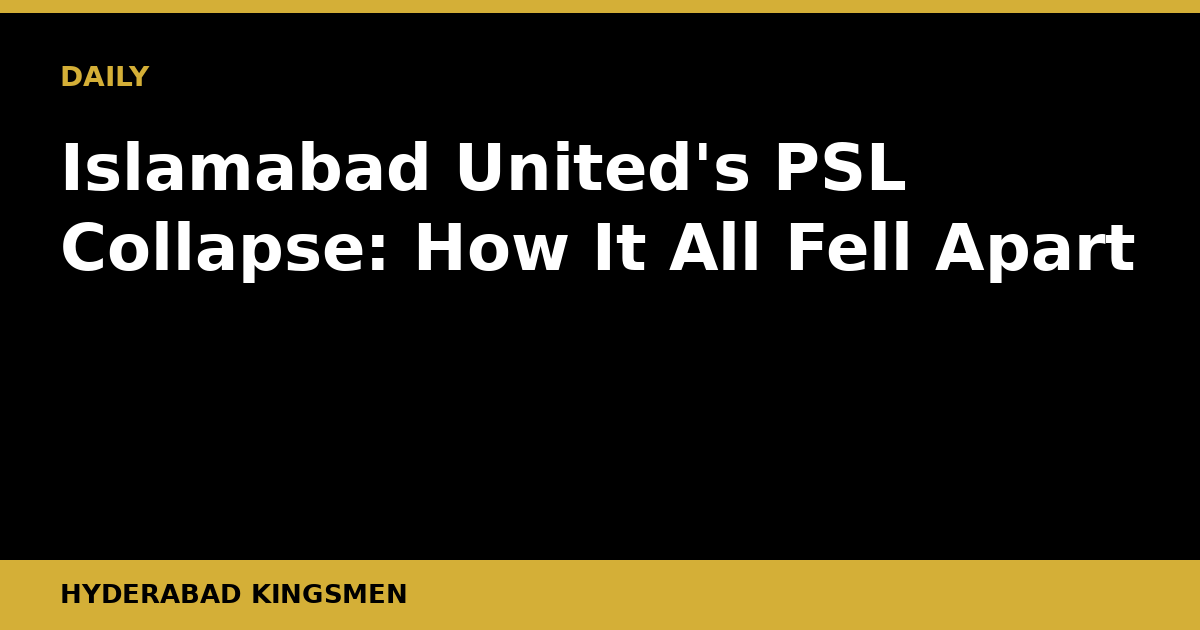
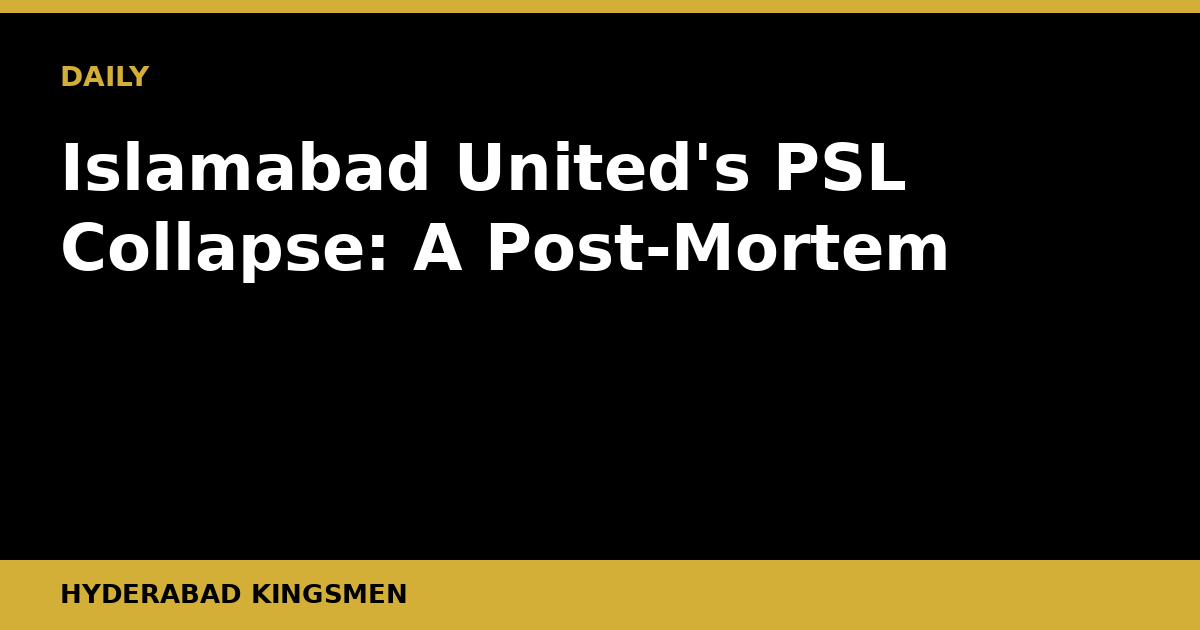
Daily post 2026-09-19

Changed region(s): [[0.3392, 0.3317, 0.9558, 0.4524]]

diff --git a/content/posts/islamabad-united-psl-collapse-post-mortem.md b/content/posts/islamabad-united-psl-collapse-post-mortem.md
@@ -1,53 +1,51 @@
 ---
-title: "Islamabad United's PSL Collapse: How It All Fell Apart"
+title: "Islamabad United's PSL Collapse: A Post-Mortem"
 slug: "islamabad-united-psl-collapse-post-mortem"
-date: "2026-07-09T04:44:59+05:00"
+date: "2026-09-19T05:22:47+05:00"
 draft: false
-description: "Islamabad United led the PSL league stage but crashed out in Eliminator 2. A forensic look at where the wheels came off for the two-time champions."
+description: "Islamabad United went from league-stage pace-setters to Eliminator 2 exits. How did it unravel so fast, and what does it tell us about PSL squad-building?"
 banner: "/banners/islamabad-united-psl-collapse-post-mortem.png"
 kicker: "ANALYSIS"
 author: "Hyderabad Kingsmen"
 translationKey: "islamabad-united-psl-collapse-post-mortem"
-tags: ["psl", "islamabad-united", "pakistan-cricket", "psl-playoffs", "t20-cricket", "cricket-analysis"]
+tags: ["psl", "islamabad-united", "pakistan-cricket", "t20-cricket", "knockout-cricket", "franchise-cricket", "squad-building"]
 categories: ["Analysis"]
 ---
 
-Islamabad United entered the PSL playoffs as the team nobody wanted to face. They left without lifting the trophy, eliminated in Eliminator 2, and the question hanging over Rawalpindi and beyond is a pointed one: how does a side that dominated the league stage disintegrate so completely when the pressure peaks?
+## From Table-Toppers to Early Exit: United's Unravelling
 
-## The Mirage of League-Stage Form
+Islamabad United entered the business end of the Pakistan Super League as the team everyone feared. They left it as a cautionary tale about peaking too early, over-relying on a thin core, and crumbling precisely when the pressure becomes existential. Their Eliminator 2 exit is one of the more striking collapses the PSL has produced.
 
-League-stage dominance in the PSL has a habit of flattering sides. The format rewards consistency over a run of games, but the knockout rounds demand something different entirely: the ability to absorb pressure, adapt mid-match, and produce your best cricket in a condensed, high-stakes environment. Islamabad United looked every inch the title favourite for most of the group phase. Their batting depth was enviable, their bowling attack varied, and their leadership composed.
+### The Real Story: Momentum Borrowed, Not Owned
 
-But form in the league stage is not a guarantee. It is a qualification. What Islamabad ultimately failed to do was translate accumulated confidence into knockout-round execution. That gap, between potential and delivery, is where this season's story really lives.
+Here is the thing about United's league-stage form. It was built on a narrow base. A couple of overseas match-winners firing in tandem, a bowling attack that punished inconsistent middle orders, and the psychological armour that comes with being United — a franchise that has lifted the trophy before and knows how to carry that weight in the dressing room.
 
-## The Batting Order's Hidden Fragility
+But momentum in T20 cricket is rented, not purchased. When it slips, it slips fast.
 
-If there was one fault line running through Islamabad's campaign that only became fully visible in the knockouts, it was the fragility at the top of their batting order under tournament pressure. When their key performers fired together, United were genuinely destructive. But their middle order had a tendency to cluster, to fall in rapid succession once an early wicket triggered nerves. In high-stakes T20 cricket, that kind of conditional batting, dependent on the top two or three clicking, is an exploitable weakness. Opponents in the knockout rounds targeted it.
+The cracks were visible even during the winning run. United's middle-order depth was questionable. When the top two or three did not fire, there was an uncomfortable scramble in the engine room. In the knockouts, opposition analysts had had weeks of footage to work with. The same plans that worked in February looked brittle by the time the lights burned brightest.
 
-A side that wins a league stage convincingly can sometimes mask those dependencies. When you are chasing modest totals or setting them against teams with nothing to lose, the depth gets tested less rigorously. The Eliminator format, with its win-or-go-home intensity, strips all of that away.
+Bowling, too, told a similar story. United's attack carried a workload concentration problem. Lean too heavily on one or two impact bowlers, and a short boundary or a hot bat from the opposition can unravel an entire game plan inside four overs. That is exactly what seemed to happen when the knockout pressure stripped away the margin for error.
 
-## The Bowling Attack's Load Distribution
+### What This Means for the Franchise
 
-Islabad's bowling was a similarly mixed picture. Their best spells in the tournament were exceptional. The problem was load distribution. Too much responsibility sat with a small cluster of bowlers, and when conditions or form shifted even slightly, the alternatives were unable to hold the pressure. Death-over bowling, specifically, proved to be an Achilles heel once opponents identified the weaker options in the attack and targeted them deliberately.
+For a team of United's stature and budget, losing in Eliminator 2 is not just a disappointing result. It prompts serious structural questions.
 
-In knockout cricket, opposition captains do their homework. The lengths Islamabad's bowlers were vulnerable at became a blueprint for opponents to exploit, and there was insufficient variety in the attack to force batters into reassessing that blueprint mid-innings.
+First, squad balance. Successful PSL campaigns are won by teams with six or seven batters who can hurt you and four or five bowling options that remain dangerous even when the pitch is flat. United have historically been brilliant at assembling stars but have occasionally neglected the less glamorous depth players who absorb pressure in between those stars.
 
-## Leadership and In-Match Decision Making
+Second, the captaincy and tactical flexibility dimension. Knockout cricket demands in-game adaptability. Field placements, bowling changes, batting orders shifted mid-match — these are decisions that separate good franchises from great ones at crunch moments. Whether United's leadership read those moments correctly will be a conversation worth having internally.
 
-Captaincy decisions under pressure also warrant scrutiny. Bowling changes that looked logical in isolation sometimes missed the tactical moment. Field placements in the death overs invited the boundary rather than constricting it. These are fine margins, and it would be unfair to reduce a campaign to a handful of decisions, but knockout cricket lives and dies in precisely these margins. Islamabad's leadership, which had looked assured during the league stage, appeared slightly reactive rather than proactive when it mattered most.
+Third, and perhaps most importantly, the overseas player balance. T20 franchise cricket across the world has shown that the best teams use their overseas slots to fill very specific gaps, not simply to acquire the biggest names available. If United's overseas recruits were performing the same function, there is an efficiency argument to be made for a rethink in the next draft cycle.
 
-## What This Means Going Forward
+### The Wider PSL Lesson
 
-For Islamabad United's franchise, this elimination is not a crisis but it is a genuine reckoning. Two-time champions carry weight and expectation, and a squad this talented finishing outside the final is a result that demands honest internal reflection rather than cosmetic changes at next year's draft.
+United's collapse should resonate beyond their own dressing room. It is a reminder of something the PSL, now maturing as a competition, keeps demonstrating. The teams that win trophies are not always the ones that top the group stage. They are the ones built for knockout intensity, where small margins separate brilliance from elimination.
 
-The core question for team management is whether the squad's dependency on a narrow group of match-winners can be broadened. Greater middle-order reliability and a more versatile bowling attack are not radical suggestions. They are the obvious remedies that the evidence of this season points toward.
+The competition is getting harder to predict and harder to dominate. Eight franchises, each with access to quality overseas talent and a growing pool of capable Pakistan players, means the gaps are narrower than they have ever been. In that environment, sustaining form across a full knockout campaign requires something deeper than individual brilliance. It requires systems.
 
-For Pakistan cricket more broadly, Islamabad's implosion is a reminder that the PSL remains genuinely open. No franchise has a monopoly on knockout-stage composure, not even the ones who have lifted the trophy before.
+### What to Watch Next
 
-## What to Watch Next
+The immediate question is whether United's management treats this as a one-season anomaly or a signal to rethink the squad blueprint. The draft and retention window ahead of the next PSL edition will be telling. Watch who they retain, which overseas slots they prioritise, and whether they bring in a genuine number four or five batter who can hold an innings together under pressure rather than simply a third or fourth name-recognition signing.
 
-The PSL final picture now comes into sharper focus without United. Watch how the remaining franchises approach the tactical gaps Islamabad left exposed, particularly in death-over bowling and middle-order construction. The side that wins the title will likely be the one that answers those two questions most convincingly across their remaining games.
+For Pakistan cricket broadly, United's players who underperformed in the knockouts will face scrutiny heading into the national selection cycle as well. The PSL is a performance database for selectors. A player who freezes in a knockout for his franchise is a player who raises questions about his temperament for Test matches, Champions Trophy campaigns, and everything in between.
 
-For Islamabad, the watch-list for the off-season is clear: which players are retained, which are released, and whether the franchise acknowledges the structural issues publicly or papers over them. The draft and the retention decisions will say more about United's self-awareness than any post-tournament press conference.
-
-League-stage brilliance is a wonderful thing. In the PSL, it only ever buys you a seat at the knockout table. Islamabad United, this season, forgot that distinction at the worst possible moment.
+Islamabad United will be back. That much is certain. But back to what, and rebuilt on what principles, is the genuinely interesting question now.
